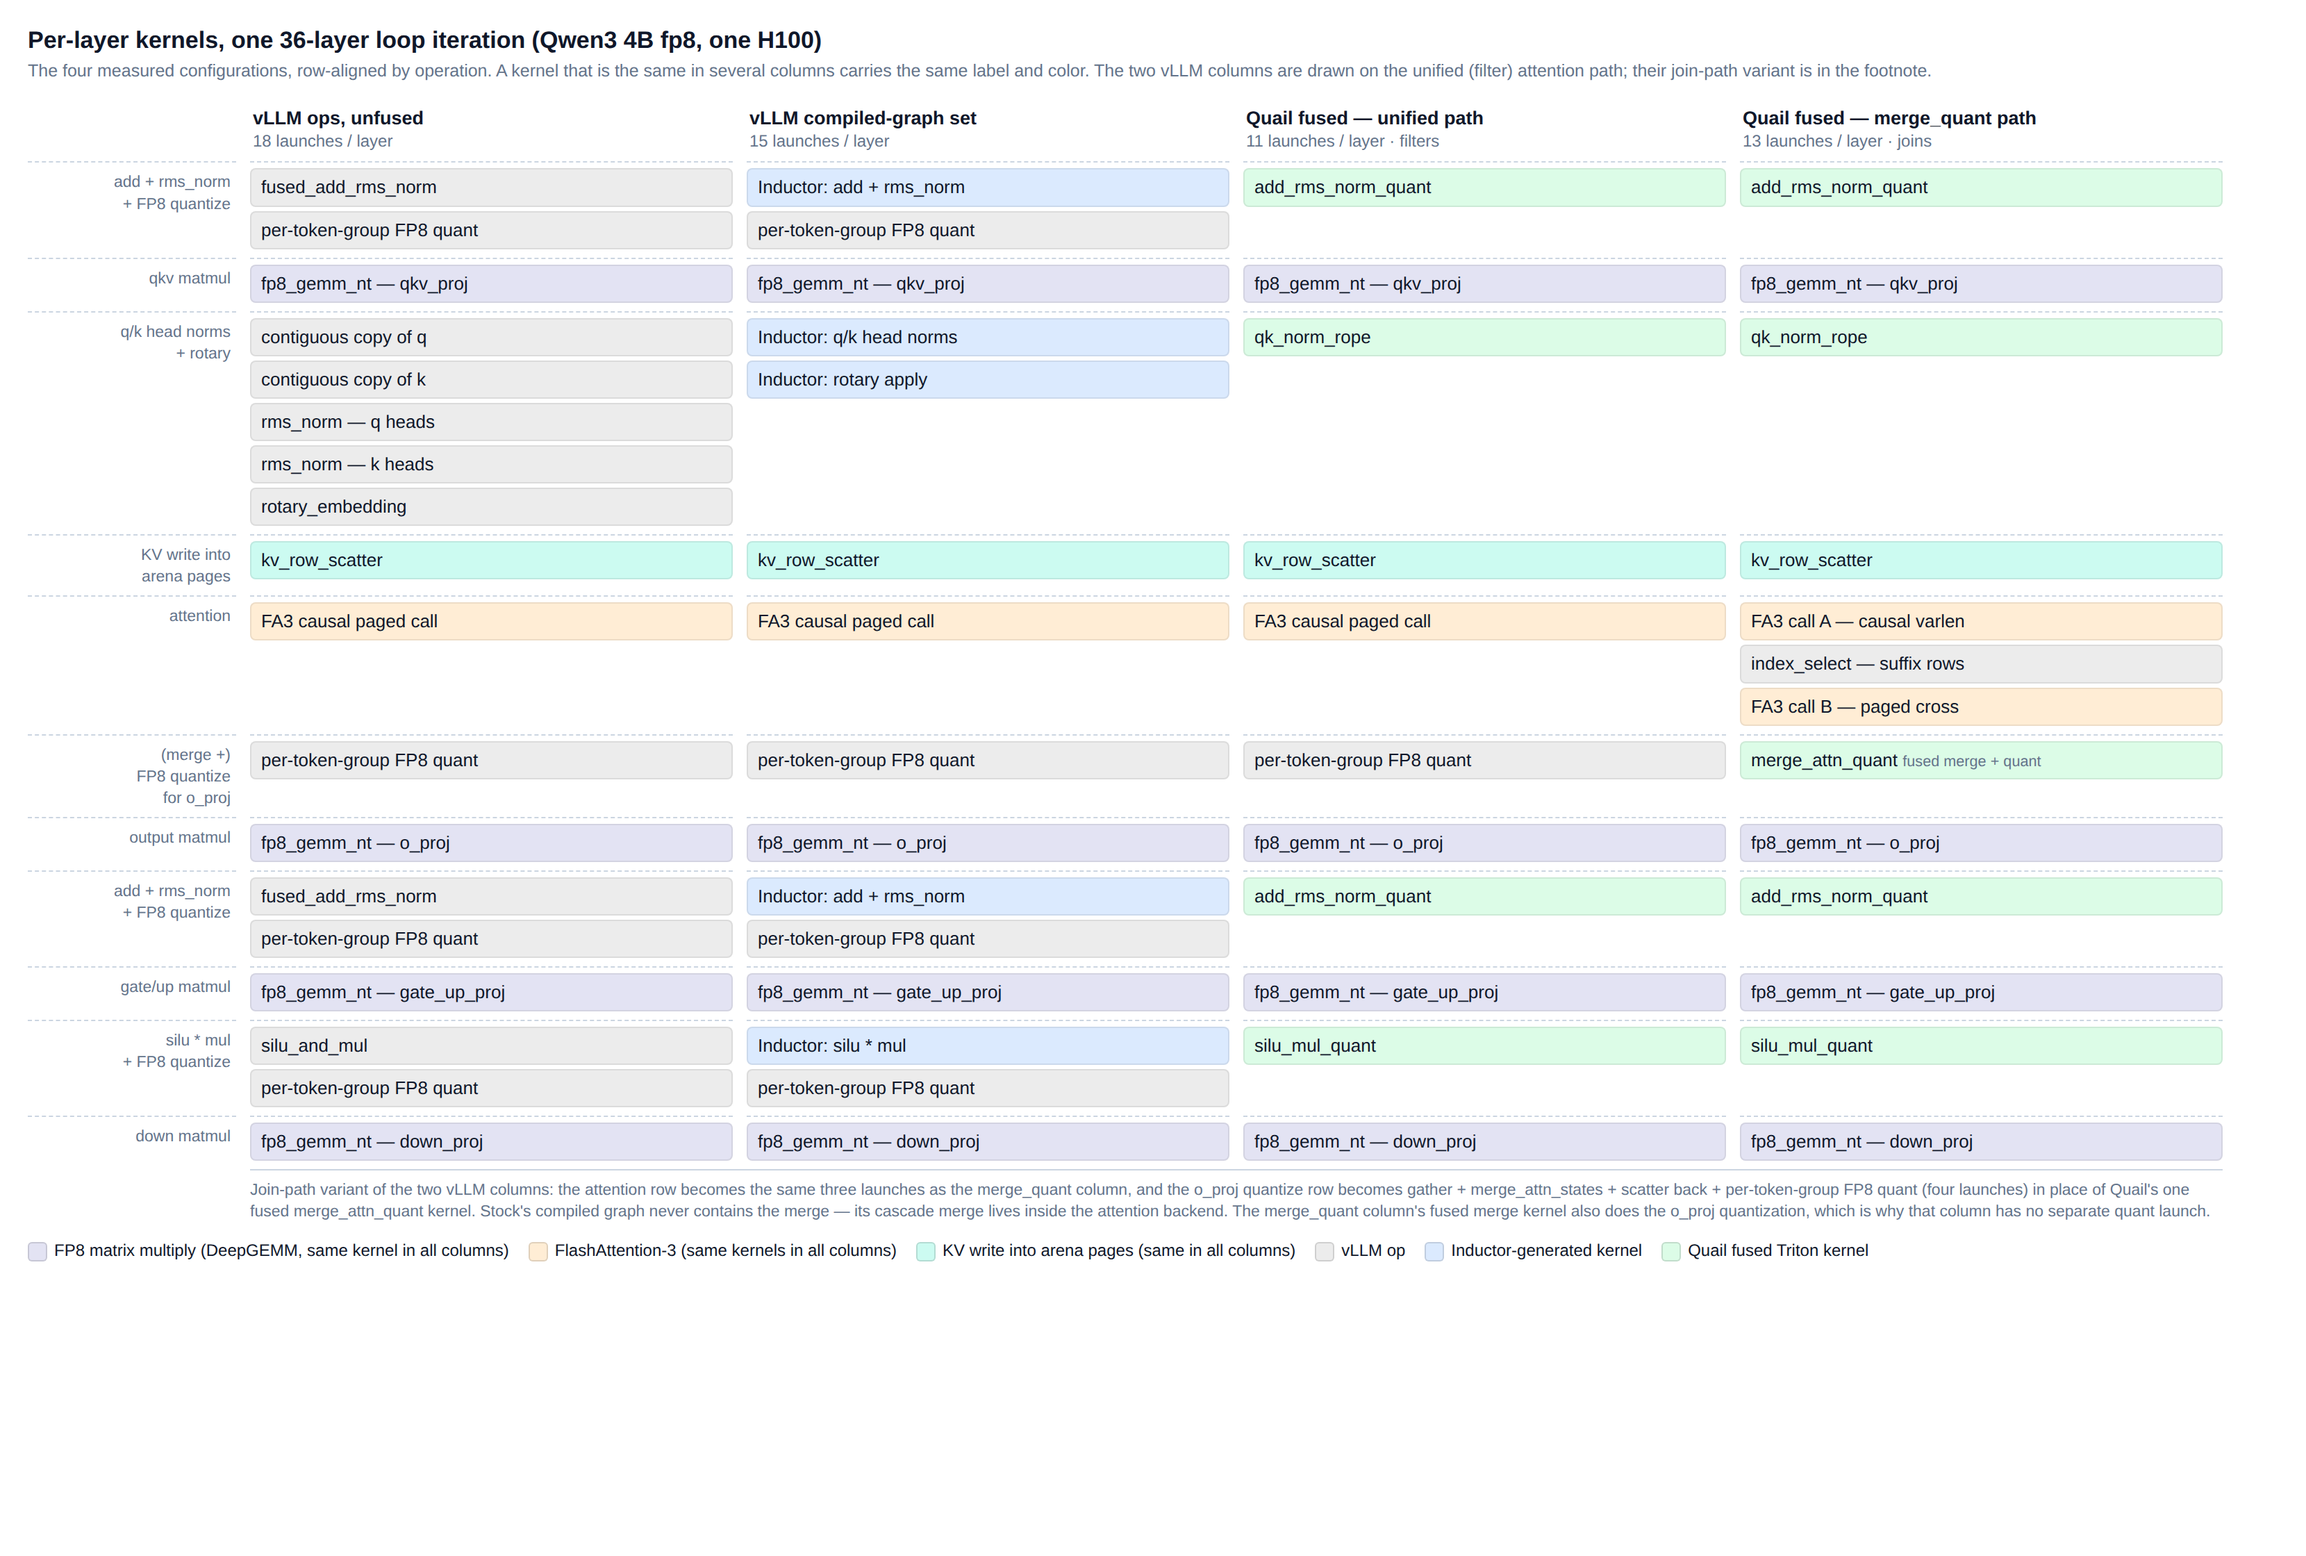
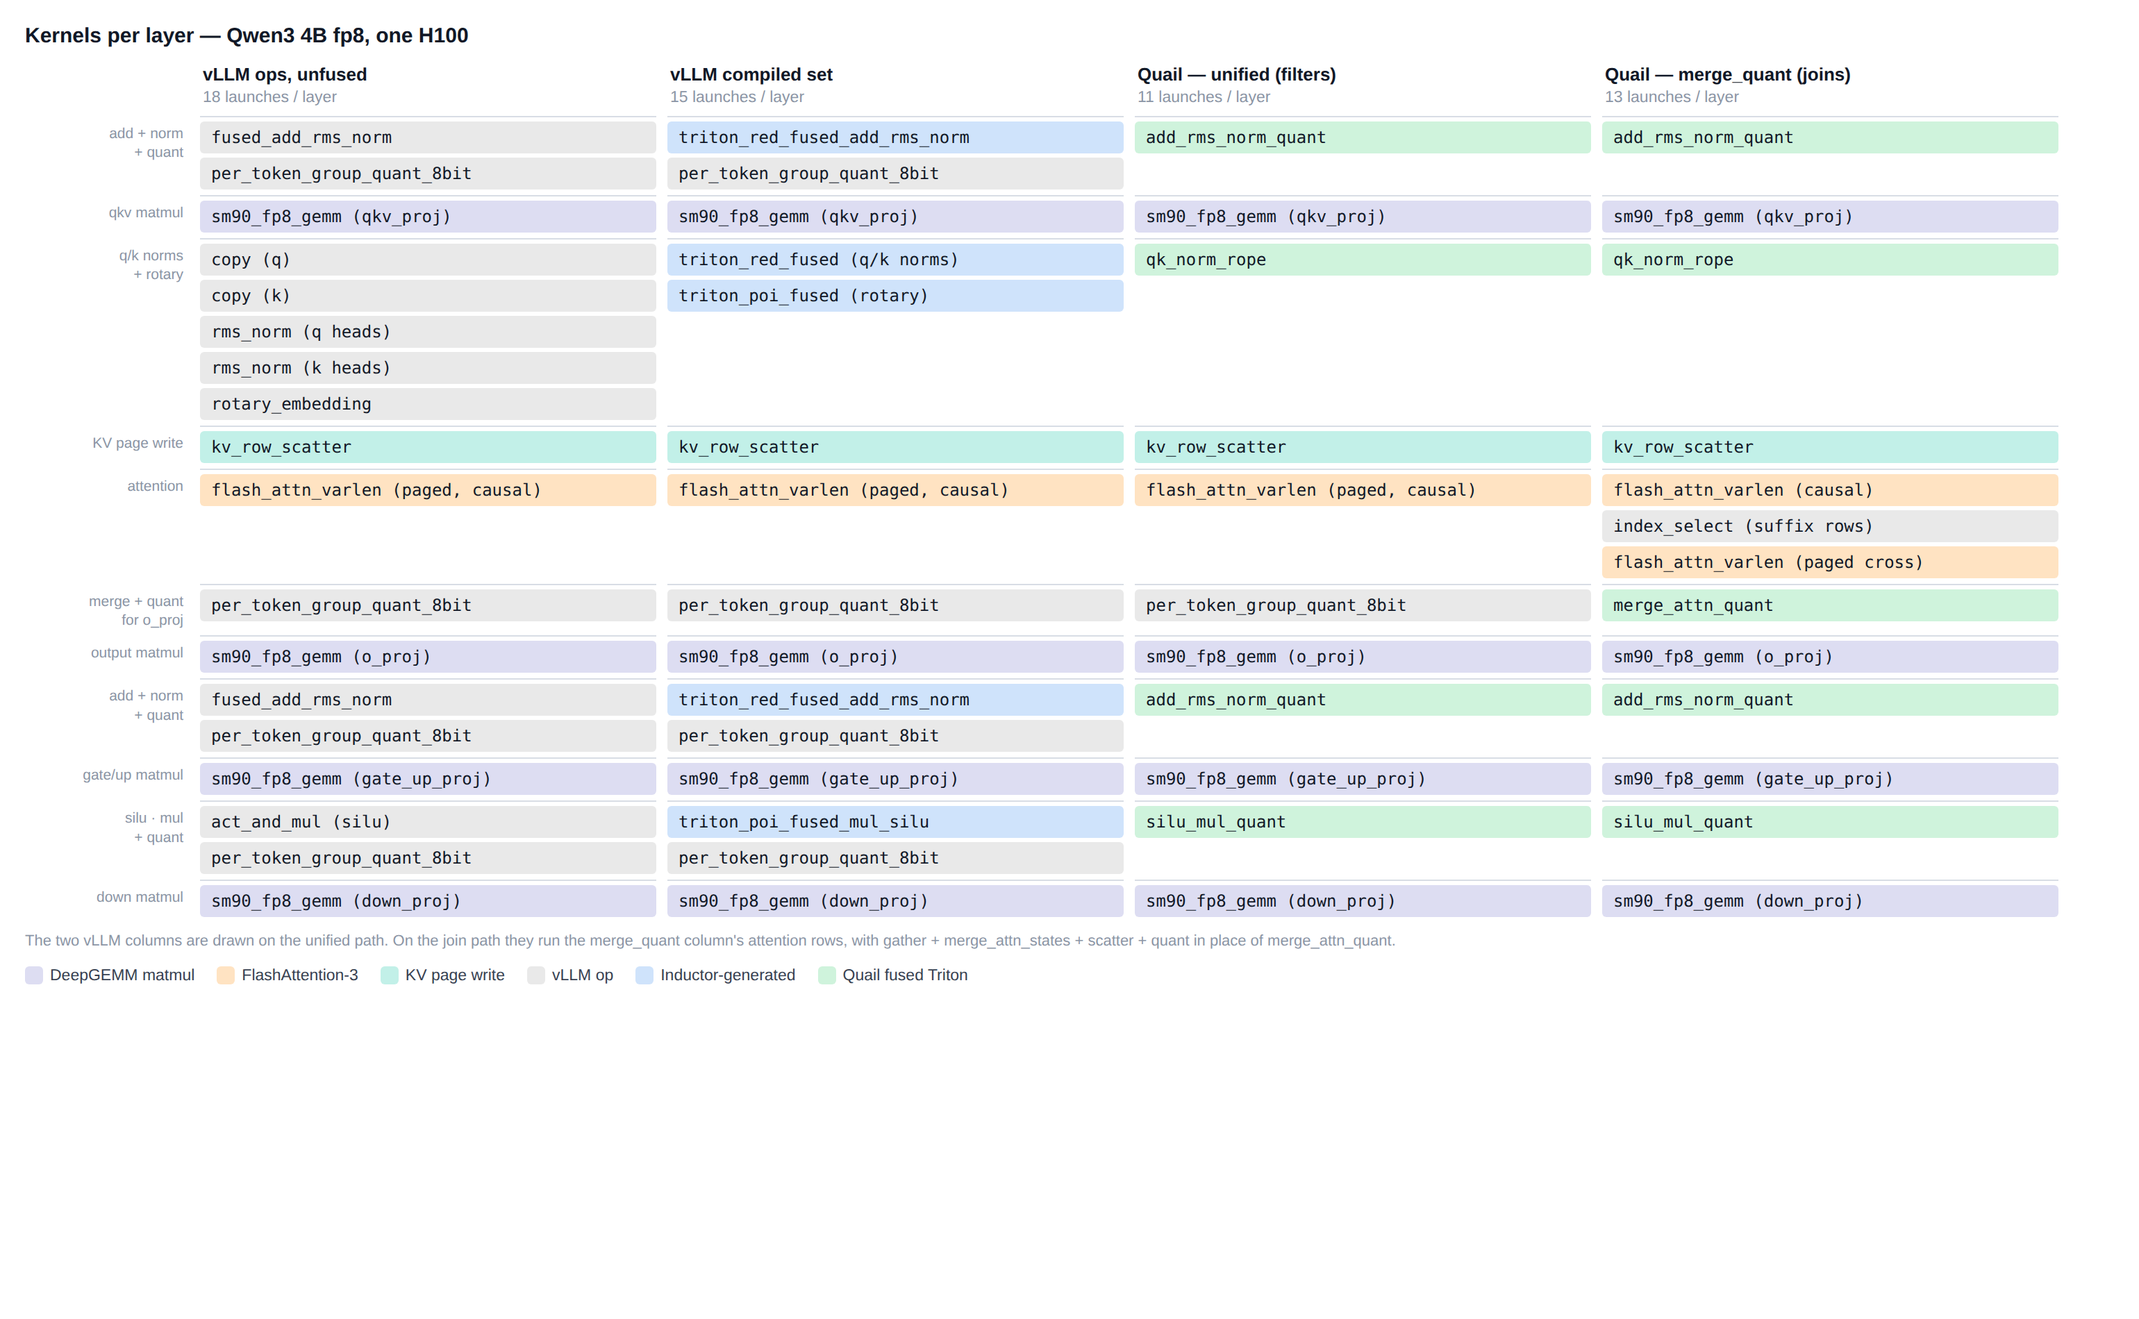
Strip the kernel diagram to the kernels
Monospace kernel names (the measured identifiers), no subtitle, no
in-chip annotations, one-line footnote for the vLLM join variant.

Claude-Session: https://claude.ai/code/session_01PwpJt14fuuyfeoG2nhwcvz

Changed region(s): [[0.0, 0.0, 0.9662, 0.8074]]

diff --git a/reports/kernel_paths_diagram.html b/reports/kernel_paths_diagram.html
@@ -5,184 +5,170 @@
 <title>Per-layer kernels: vLLM unfused, vLLM compiled, Quail unified, Quail merge_quant</title>
 <style>
   :root {
-    --gemm:   #e3e3f3; --vllm:  #ececec; --inductor: #dbeafe;
-    --quail:  #dcfce7; --fa3:   #ffedd5; --kv: #ccfbf1;
-    --ink: #0f172a; --muted: #64748b; --line: #cbd5e1;
+    --gemm:   #ddddf2; --vllm:  #e9e9e9; --inductor: #cfe3fb;
+    --quail:  #cff3dc; --fa3:   #ffe3c2; --kv: #c2f0e8;
+    --ink: #111827; --muted: #8b95a5; --line: #d8dde5;
   }
   * { box-sizing: border-box; margin: 0; padding: 0; }
-  body { font: 13px/1.35 -apple-system, "Segoe UI", Roboto, Helvetica,
+  body { font: 13px/1.3 -apple-system, "Segoe UI", Roboto, Helvetica,
          Arial, sans-serif; color: var(--ink); background: #fff;
-         padding: 18px 20px; width: 1620px; }
-  h1 { font-size: 17px; margin-bottom: 2px; }
-  .sub { color: var(--muted); margin-bottom: 14px; font-size: 12.5px; }
+         padding: 16px 18px; width: 1500px; }
+  h1 { font-size: 15px; margin-bottom: 10px; }
   .grid { display: grid;
-          grid-template-columns: 150px repeat(4, 1fr);
-          gap: 6px 10px; align-items: stretch; }
-  .head { font-size: 13.5px; font-weight: 700; padding: 2px 2px 0; }
-  .head .count { display: block; color: var(--muted); font-size: 12px;
+          grid-template-columns: 118px repeat(4, 1fr);
+          gap: 4px 8px; align-items: stretch; }
+  .head { font-size: 13px; font-weight: 700; padding: 0 2px 2px; }
+  .head .count { display: block; color: var(--muted); font-size: 11.5px;
                  font-weight: 400; }
-  .op { color: var(--muted); font-size: 11.5px; text-align: right;
-        padding: 6px 4px 0 0; border-top: 1px dashed var(--line); }
+  .op { color: var(--muted); font-size: 10.5px; text-align: right;
+        padding: 5px 4px 0 0; }
   .cell { display: flex; flex-direction: column; gap: 3px;
-          padding-top: 4px; border-top: 1px dashed var(--line); }
-  .k { border-radius: 4px; padding: 4px 7px;
-       border: 1px solid rgba(0,0,0,0.07); }
-  .k small { color: var(--muted); }
+          padding-top: 3px; border-top: 1px solid var(--line); }
+  .op { border-top: 1px solid transparent; padding-top: 5px; }
+  .k { border-radius: 3px; padding: 4px 8px;
+       font: 12px/1.25 ui-monospace, "SF Mono", Menlo, Consolas,
+       monospace; }
   .gemm { background: var(--gemm); }
   .vllm { background: var(--vllm); }
   .inductor { background: var(--inductor); }
   .quail { background: var(--quail); }
   .fa3 { background: var(--fa3); }
   .kv { background: var(--kv); }
-  .foot { grid-column: 2 / span 4; color: var(--muted);
-          font-size: 11.5px; padding-top: 6px;
-          border-top: 1px solid var(--line); }
-  .legend { display: flex; gap: 14px; margin-top: 13px;
-            font-size: 12px; flex-wrap: wrap; }
+  .foot { grid-column: 1 / span 5; color: var(--muted);
+          font-size: 11px; padding-top: 6px; }
+  .legend { display: flex; gap: 16px; margin-top: 10px;
+            font-size: 11.5px; flex-wrap: wrap; color: #374151; }
   .legend span { display: inline-flex; align-items: center; gap: 5px; }
-  .chip { width: 14px; height: 14px; border-radius: 3px;
-          border: 1px solid rgba(0,0,0,0.12); display: inline-block; }
+  .chip { width: 13px; height: 13px; border-radius: 3px;
+          display: inline-block; }
 </style>
 </head>
 <body>
-<h1>Per-layer kernels, one 36-layer loop iteration (Qwen3 4B fp8, one H100)</h1>
-<div class="sub">The four measured configurations, row-aligned by
-operation. A kernel that is the same in several columns carries the
-same label and color. The two vLLM columns are drawn on the unified
-(filter) attention path; their join-path variant is in the footnote.</div>
+<h1>Kernels per layer &mdash; Qwen3 4B fp8, one H100</h1>
 
 <div class="grid">
 
   <div></div>
   <div class="head">vLLM ops, unfused
     <span class="count">18 launches / layer</span></div>
-  <div class="head">vLLM compiled-graph set
+  <div class="head">vLLM compiled set
     <span class="count">15 launches / layer</span></div>
-  <div class="head">Quail fused — unified path
-    <span class="count">11 launches / layer &middot; filters</span></div>
-  <div class="head">Quail fused — merge_quant path
-    <span class="count">13 launches / layer &middot; joins</span></div>
+  <div class="head">Quail &mdash; unified (filters)
+    <span class="count">11 launches / layer</span></div>
+  <div class="head">Quail &mdash; merge_quant (joins)
+    <span class="count">13 launches / layer</span></div>
 
-  <div class="op">add + rms_norm<br>+ FP8 quantize</div>
+  <div class="op">add + norm<br>+ quant</div>
   <div class="cell">
     <div class="k vllm">fused_add_rms_norm</div>
-    <div class="k vllm">per-token-group FP8 quant</div>
+    <div class="k vllm">per_token_group_quant_8bit</div>
   </div>
   <div class="cell">
-    <div class="k inductor">Inductor: add + rms_norm</div>
-    <div class="k vllm">per-token-group FP8 quant</div>
+    <div class="k inductor">triton_red_fused_add_rms_norm</div>
+    <div class="k vllm">per_token_group_quant_8bit</div>
   </div>
   <div class="cell"><div class="k quail">add_rms_norm_quant</div></div>
   <div class="cell"><div class="k quail">add_rms_norm_quant</div></div>
 
   <div class="op">qkv matmul</div>
-  <div class="cell"><div class="k gemm">fp8_gemm_nt — qkv_proj</div></div>
-  <div class="cell"><div class="k gemm">fp8_gemm_nt — qkv_proj</div></div>
-  <div class="cell"><div class="k gemm">fp8_gemm_nt — qkv_proj</div></div>
-  <div class="cell"><div class="k gemm">fp8_gemm_nt — qkv_proj</div></div>
+  <div class="cell"><div class="k gemm">sm90_fp8_gemm (qkv_proj)</div></div>
+  <div class="cell"><div class="k gemm">sm90_fp8_gemm (qkv_proj)</div></div>
+  <div class="cell"><div class="k gemm">sm90_fp8_gemm (qkv_proj)</div></div>
+  <div class="cell"><div class="k gemm">sm90_fp8_gemm (qkv_proj)</div></div>
 
-  <div class="op">q/k head norms<br>+ rotary</div>
+  <div class="op">q/k norms<br>+ rotary</div>
   <div class="cell">
-    <div class="k vllm">contiguous copy of q</div>
-    <div class="k vllm">contiguous copy of k</div>
-    <div class="k vllm">rms_norm — q heads</div>
-    <div class="k vllm">rms_norm — k heads</div>
+    <div class="k vllm">copy (q)</div>
+    <div class="k vllm">copy (k)</div>
+    <div class="k vllm">rms_norm (q heads)</div>
+    <div class="k vllm">rms_norm (k heads)</div>
     <div class="k vllm">rotary_embedding</div>
   </div>
   <div class="cell">
-    <div class="k inductor">Inductor: q/k head norms</div>
-    <div class="k inductor">Inductor: rotary apply</div>
+    <div class="k inductor">triton_red_fused (q/k norms)</div>
+    <div class="k inductor">triton_poi_fused (rotary)</div>
   </div>
   <div class="cell"><div class="k quail">qk_norm_rope</div></div>
   <div class="cell"><div class="k quail">qk_norm_rope</div></div>
 
-  <div class="op">KV write into<br>arena pages</div>
+  <div class="op">KV page write</div>
   <div class="cell"><div class="k kv">kv_row_scatter</div></div>
   <div class="cell"><div class="k kv">kv_row_scatter</div></div>
   <div class="cell"><div class="k kv">kv_row_scatter</div></div>
   <div class="cell"><div class="k kv">kv_row_scatter</div></div>
 
   <div class="op">attention</div>
-  <div class="cell"><div class="k fa3">FA3 causal paged call</div></div>
-  <div class="cell"><div class="k fa3">FA3 causal paged call</div></div>
-  <div class="cell"><div class="k fa3">FA3 causal paged call</div></div>
+  <div class="cell"><div class="k fa3">flash_attn_varlen (paged, causal)</div></div>
+  <div class="cell"><div class="k fa3">flash_attn_varlen (paged, causal)</div></div>
+  <div class="cell"><div class="k fa3">flash_attn_varlen (paged, causal)</div></div>
   <div class="cell">
-    <div class="k fa3">FA3 call A — causal varlen</div>
-    <div class="k vllm">index_select — suffix rows</div>
-    <div class="k fa3">FA3 call B — paged cross</div>
+    <div class="k fa3">flash_attn_varlen (causal)</div>
+    <div class="k vllm">index_select (suffix rows)</div>
+    <div class="k fa3">flash_attn_varlen (paged cross)</div>
   </div>
 
-  <div class="op">(merge +)<br>FP8 quantize<br>for o_proj</div>
-  <div class="cell"><div class="k vllm">per-token-group FP8 quant</div></div>
-  <div class="cell"><div class="k vllm">per-token-group FP8 quant</div></div>
-  <div class="cell"><div class="k vllm">per-token-group FP8 quant</div></div>
-  <div class="cell">
-    <div class="k quail">merge_attn_quant
-      <small>fused merge + quant</small></div>
-  </div>
+  <div class="op">merge + quant<br>for o_proj</div>
+  <div class="cell"><div class="k vllm">per_token_group_quant_8bit</div></div>
+  <div class="cell"><div class="k vllm">per_token_group_quant_8bit</div></div>
+  <div class="cell"><div class="k vllm">per_token_group_quant_8bit</div></div>
+  <div class="cell"><div class="k quail">merge_attn_quant</div></div>
 
   <div class="op">output matmul</div>
-  <div class="cell"><div class="k gemm">fp8_gemm_nt — o_proj</div></div>
-  <div class="cell"><div class="k gemm">fp8_gemm_nt — o_proj</div></div>
-  <div class="cell"><div class="k gemm">fp8_gemm_nt — o_proj</div></div>
-  <div class="cell"><div class="k gemm">fp8_gemm_nt — o_proj</div></div>
+  <div class="cell"><div class="k gemm">sm90_fp8_gemm (o_proj)</div></div>
+  <div class="cell"><div class="k gemm">sm90_fp8_gemm (o_proj)</div></div>
+  <div class="cell"><div class="k gemm">sm90_fp8_gemm (o_proj)</div></div>
+  <div class="cell"><div class="k gemm">sm90_fp8_gemm (o_proj)</div></div>
 
-  <div class="op">add + rms_norm<br>+ FP8 quantize</div>
+  <div class="op">add + norm<br>+ quant</div>
   <div class="cell">
     <div class="k vllm">fused_add_rms_norm</div>
-    <div class="k vllm">per-token-group FP8 quant</div>
+    <div class="k vllm">per_token_group_quant_8bit</div>
   </div>
   <div class="cell">
-    <div class="k inductor">Inductor: add + rms_norm</div>
-    <div class="k vllm">per-token-group FP8 quant</div>
+    <div class="k inductor">triton_red_fused_add_rms_norm</div>
+    <div class="k vllm">per_token_group_quant_8bit</div>
   </div>
   <div class="cell"><div class="k quail">add_rms_norm_quant</div></div>
   <div class="cell"><div class="k quail">add_rms_norm_quant</div></div>
 
   <div class="op">gate/up matmul</div>
-  <div class="cell"><div class="k gemm">fp8_gemm_nt — gate_up_proj</div></div>
-  <div class="cell"><div class="k gemm">fp8_gemm_nt — gate_up_proj</div></div>
-  <div class="cell"><div class="k gemm">fp8_gemm_nt — gate_up_proj</div></div>
-  <div class="cell"><div class="k gemm">fp8_gemm_nt — gate_up_proj</div></div>
+  <div class="cell"><div class="k gemm">sm90_fp8_gemm (gate_up_proj)</div></div>
+  <div class="cell"><div class="k gemm">sm90_fp8_gemm (gate_up_proj)</div></div>
+  <div class="cell"><div class="k gemm">sm90_fp8_gemm (gate_up_proj)</div></div>
+  <div class="cell"><div class="k gemm">sm90_fp8_gemm (gate_up_proj)</div></div>
 
-  <div class="op">silu * mul<br>+ FP8 quantize</div>
+  <div class="op">silu &middot; mul<br>+ quant</div>
   <div class="cell">
-    <div class="k vllm">silu_and_mul</div>
-    <div class="k vllm">per-token-group FP8 quant</div>
+    <div class="k vllm">act_and_mul (silu)</div>
+    <div class="k vllm">per_token_group_quant_8bit</div>
   </div>
   <div class="cell">
-    <div class="k inductor">Inductor: silu * mul</div>
-    <div class="k vllm">per-token-group FP8 quant</div>
+    <div class="k inductor">triton_poi_fused_mul_silu</div>
+    <div class="k vllm">per_token_group_quant_8bit</div>
   </div>
   <div class="cell"><div class="k quail">silu_mul_quant</div></div>
   <div class="cell"><div class="k quail">silu_mul_quant</div></div>
 
   <div class="op">down matmul</div>
-  <div class="cell"><div class="k gemm">fp8_gemm_nt — down_proj</div></div>
-  <div class="cell"><div class="k gemm">fp8_gemm_nt — down_proj</div></div>
-  <div class="cell"><div class="k gemm">fp8_gemm_nt — down_proj</div></div>
-  <div class="cell"><div class="k gemm">fp8_gemm_nt — down_proj</div></div>
+  <div class="cell"><div class="k gemm">sm90_fp8_gemm (down_proj)</div></div>
+  <div class="cell"><div class="k gemm">sm90_fp8_gemm (down_proj)</div></div>
+  <div class="cell"><div class="k gemm">sm90_fp8_gemm (down_proj)</div></div>
+  <div class="cell"><div class="k gemm">sm90_fp8_gemm (down_proj)</div></div>
 
-  <div></div>
-  <div class="foot">Join-path variant of the two vLLM columns: the
-  attention row becomes the same three launches as the merge_quant
-  column, and the o_proj quantize row becomes gather + merge_attn_states
-  + scatter back + per-token-group FP8 quant (four launches) in place
-  of Quail's one fused merge_attn_quant kernel. Stock's compiled graph
-  never contains the merge — its cascade merge lives inside the
-  attention backend. The merge_quant column's fused merge kernel also
-  does the o_proj quantization, which is why that column has no
-  separate quant launch.</div>
+  <div class="foot">The two vLLM columns are drawn on the unified
+  path. On the join path they run the merge_quant column's attention
+  rows, with gather + merge_attn_states + scatter + quant in place of
+  merge_attn_quant.</div>
 
 </div>
 
 <div class="legend">
-  <span><span class="chip" style="background:var(--gemm)"></span>FP8 matrix multiply (DeepGEMM, same kernel in all columns)</span>
-  <span><span class="chip" style="background:var(--fa3)"></span>FlashAttention-3 (same kernels in all columns)</span>
-  <span><span class="chip" style="background:var(--kv)"></span>KV write into arena pages (same in all columns)</span>
+  <span><span class="chip" style="background:var(--gemm)"></span>DeepGEMM matmul</span>
+  <span><span class="chip" style="background:var(--fa3)"></span>FlashAttention-3</span>
+  <span><span class="chip" style="background:var(--kv)"></span>KV page write</span>
   <span><span class="chip" style="background:var(--vllm)"></span>vLLM op</span>
-  <span><span class="chip" style="background:var(--inductor)"></span>Inductor-generated kernel</span>
-  <span><span class="chip" style="background:var(--quail)"></span>Quail fused Triton kernel</span>
+  <span><span class="chip" style="background:var(--inductor)"></span>Inductor-generated</span>
+  <span><span class="chip" style="background:var(--quail)"></span>Quail fused Triton</span>
 </div>
 </body>
 </html>
